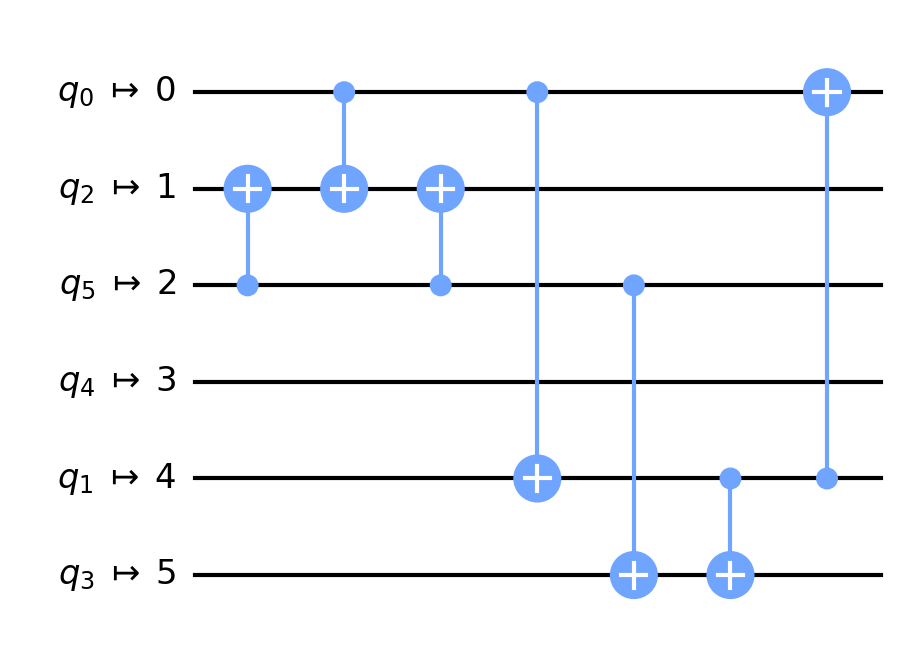
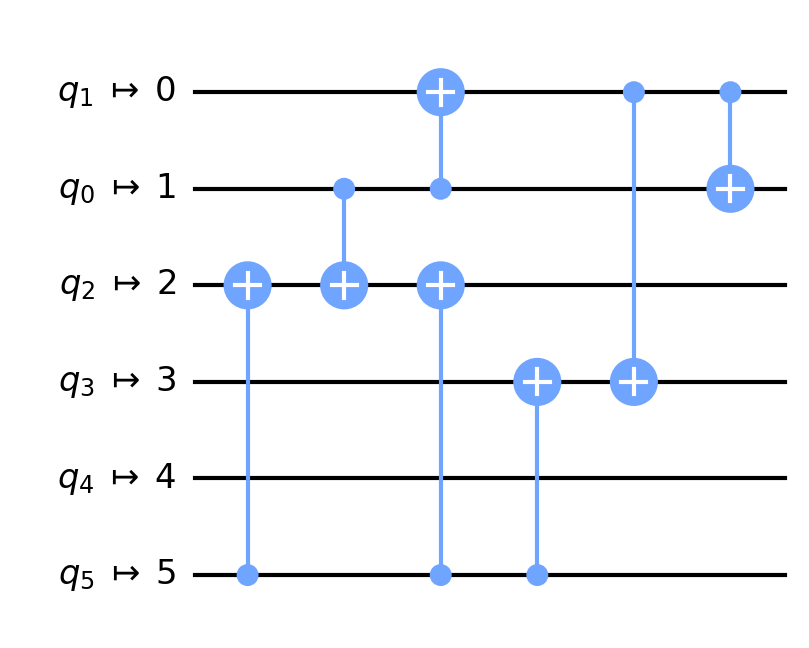
pc push

diff --git a/ZCswap_gaps.py b/ZCswap_gaps.py
@@ -30,7 +30,8 @@ from qiskit.dagcircuit.dagcircuit import DAGCircuit  # better for debugging
 from qiskit import QuantumRegister
 from rich import print
 from rich.panel import Panel
-from helpers import draw_dag
+from helpers import draw_circuit
+from qiskit.converters import dag_to_circuit
 
 # zc ---------
 
@@ -78,6 +79,7 @@ class SabreSwap(TransformationPass):
         self.phy_qubits = None
         self.gap_storage = dict[int, list[DAGOpNode]]
         self.gate_storage = None
+        self.iteration = 1
         # zc -------
 
     def _apply_gate_commutative(
@@ -100,10 +102,11 @@ class SabreSwap(TransformationPass):
 
         print(
             Panel(
-                f"Attempting application of {node.name} gate on qubits {gate_control} and {gate_target}",
+                f"Attempting application of {node.name} gate on control {gate_control} and target {gate_target}",
                 highlight=True,
             )
         )
+        print(f"Current Gaps: {self.gap_storage}")
 
         # we can make any qubits inbetween the gate a gap.
         for i in range(
@@ -112,6 +115,7 @@ class SabreSwap(TransformationPass):
             print(f"{i} is free")
             self.gap_storage[i] = Gap.FREE
 
+        # * Begin main logic here
         # * The "and" is required here to ensure that the 2 gates are not applied on the same qubits, as there would be no option there.
         if (
             self.gap_storage[gate_control] == Gap.CONTROL
@@ -213,6 +217,33 @@ class SabreSwap(TransformationPass):
             # we need to test both applications, both forward and back
 
         else:
+            # if the gate doesnt match but applies on a line with gates stored, we need to override this.
+            if self.gate_storage[gate_control]:
+                prior = self.gate_storage[gate_control]
+                prior_control, prior_target = (
+                    current_layout._v2p[prior.qargs[0]],
+                    current_layout._v2p[prior.qargs[1]],
+                )
+                mapped_dag.apply_operation_back(prior.op, prior.qargs, prior.cargs)
+
+                # self.gate_storage[prior_control], self.gate_storage[prior_target] = (
+                #     [],
+                #     [],
+                # )
+
+            elif self.gate_storage[gate_target]:
+                prior = self.gate_storage[gate_target]
+                prior_control, prior_target = (
+                    current_layout._v2p[prior.qargs[0]],
+                    current_layout._v2p[prior.qargs[1]],
+                )
+                mapped_dag.apply_operation_back(prior.op, prior.qargs, prior.cargs)
+
+                # self.gate_storage[prior_control], self.gate_storage[prior_target] = (
+                #     [],
+                #     [],
+                # )
+
             self.gate_storage[gate_control], self.gate_storage[gate_target] = (
                 new_node,
                 new_node,
@@ -224,6 +255,8 @@ class SabreSwap(TransformationPass):
         )
 
         print(self.gate_storage)
+        draw_circuit(dag_to_circuit(mapped_dag), f"output{self.iteration}")
+        self.iteration += 1
 
         if self.fake_run:
             return new_node
@@ -250,6 +283,9 @@ class SabreSwap(TransformationPass):
         if score1 > score2:
             # if the depth applying the new node first is lower, we apply first
             # This is only explicitly done if there is a depth decrease, otherwise no change is made
+            draw_circuit(dag_to_circuit(trial1), f"trial1")
+            draw_circuit(dag_to_circuit(trial2), f"trial2")
+            # quit()
             return True
         else:
             return False
@@ -436,6 +472,21 @@ class SabreSwap(TransformationPass):
                 current_layout,
                 canonical_register,
             )
+            # zc -----------
+            p0, p1 = (
+                current_layout._v2p[best_swap[0]],
+                current_layout._v2p[best_swap[1]],
+            )
+            self.gap_storage[p0], self.gap_storage[p1] = (
+                self.gap_storage[p1],
+                self.gap_storage[p0],
+            )
+            self.gate_storage[p0], self.gate_storage[p1] = (
+                self.gate_storage[p1],
+                self.gate_storage[p0],
+            )
+            # zc -----------
+
             current_layout.swap(*best_swap)
             ops_since_progress.append(swap_node)
 
